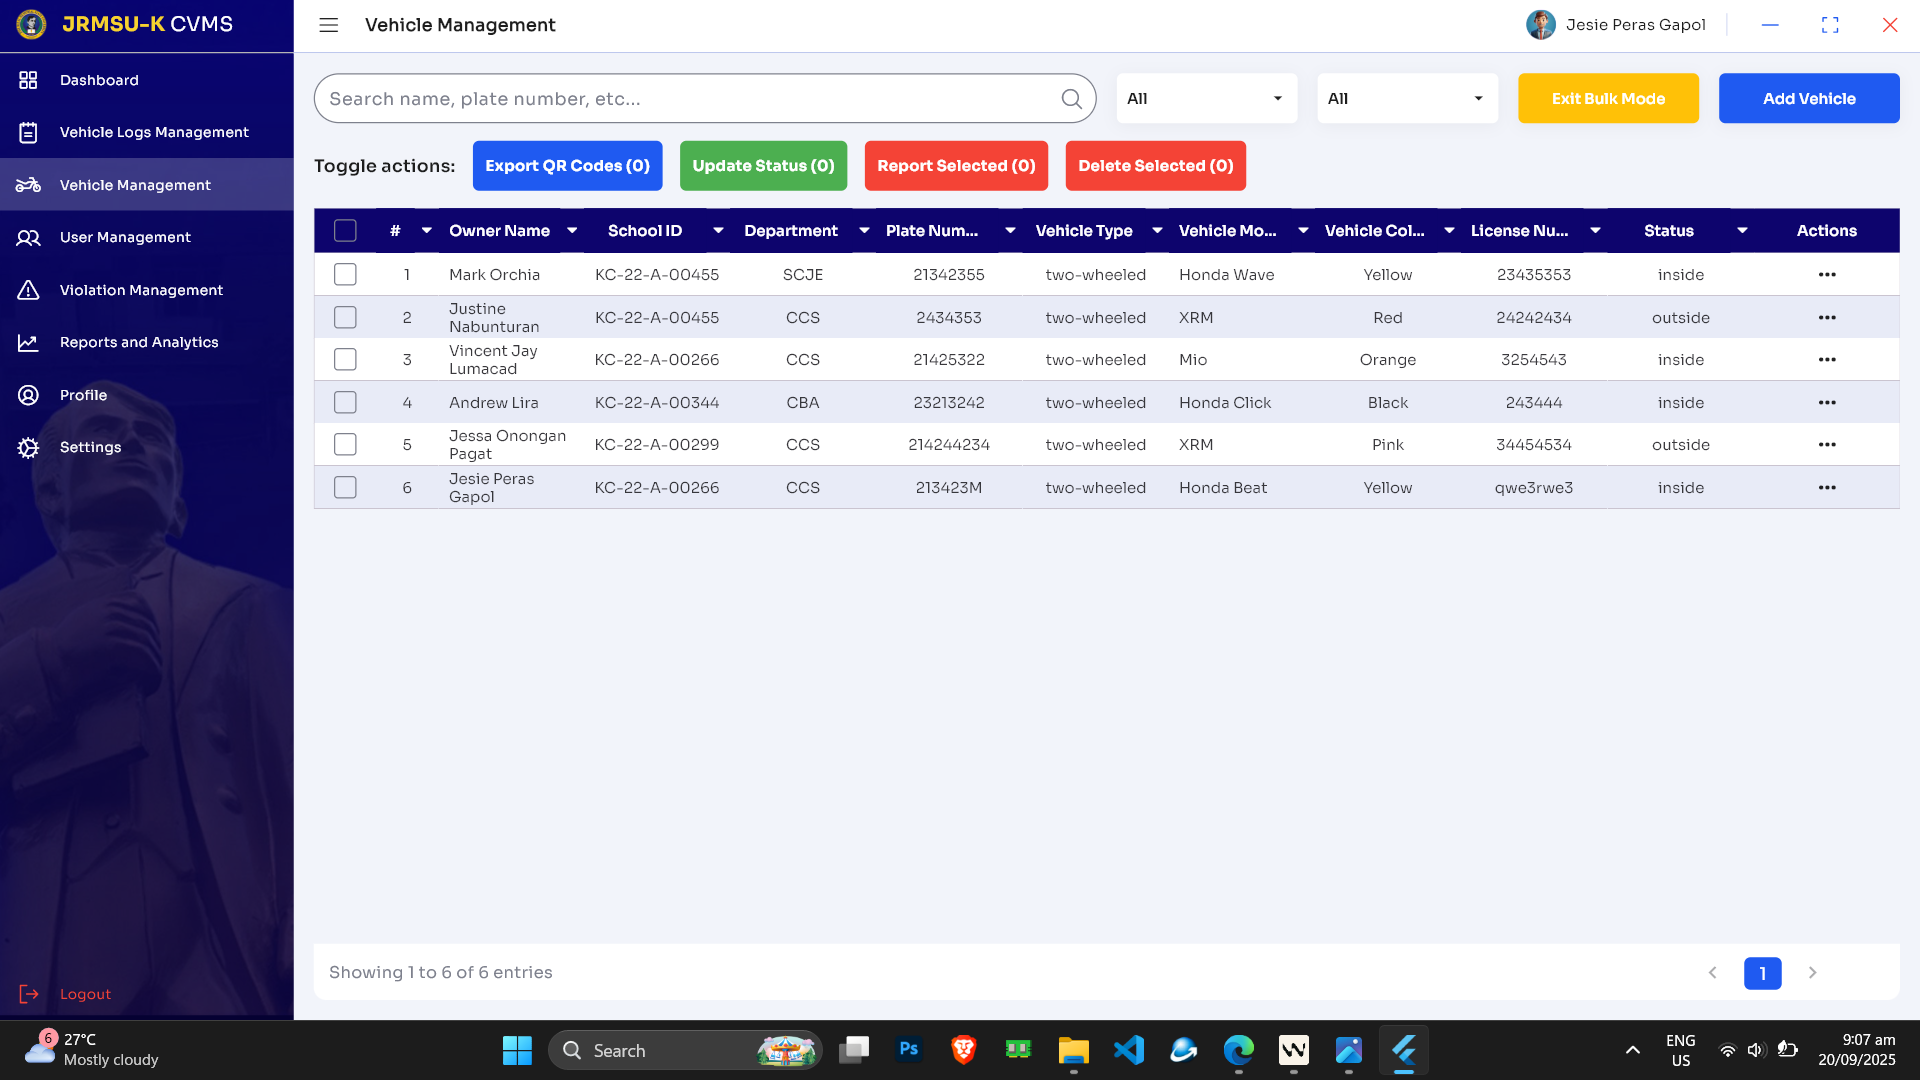
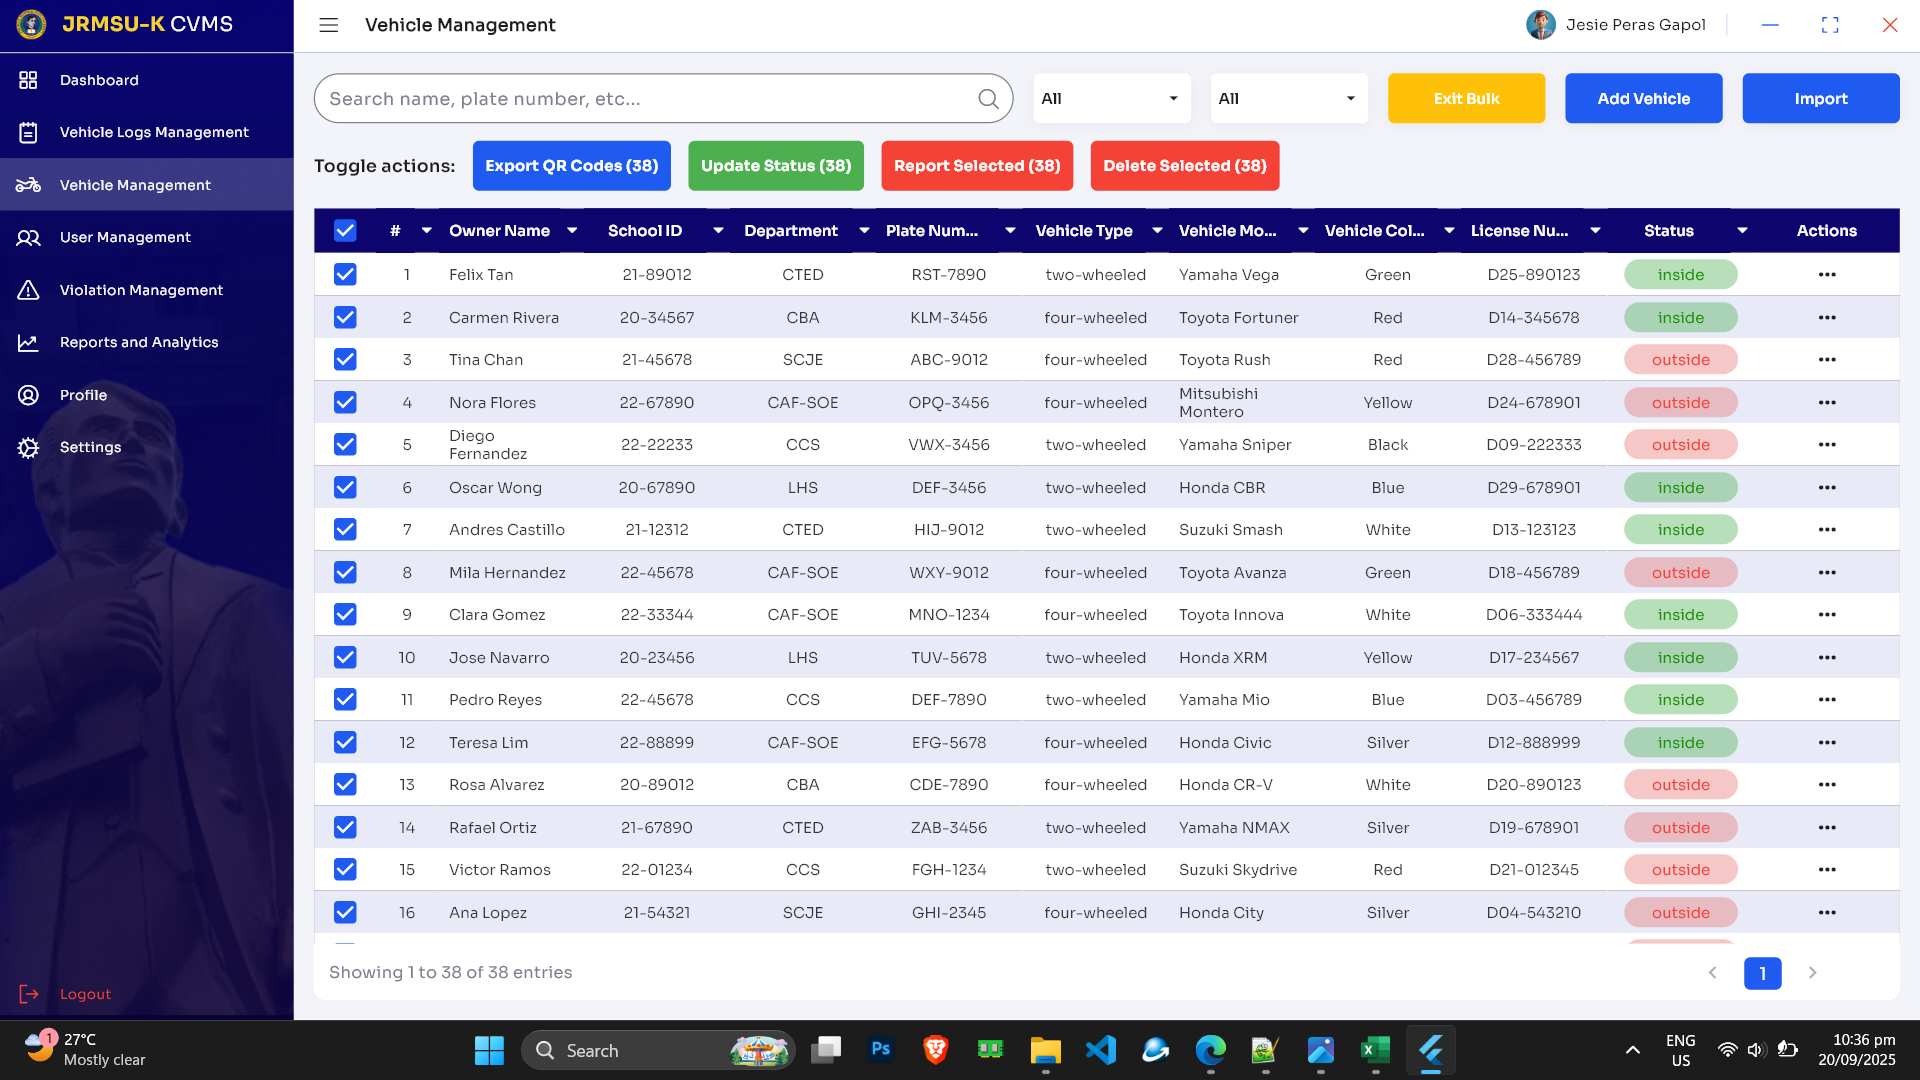
analytics implementation update

diff --git a/README.md b/README.md
@@ -1,24 +1,25 @@
 ## 📱 Screenshots (Current Pages)
 
-| Page                 | Preview                                                                |
-| -------------------- | ---------------------------------------------------------------------- |
-| Login Page           | ![Login Page](./app_progress_shots/login_page.png)                     |
-| Register Page        | ![Register Page](./app_progress_shots/register_page.png)               |
-| Forgot Password Page | ![Forgot Password Page](./app_progress_shots/forgot_pass_page.png)     |
-| Email Sent Page      | ![Email Sent Page](./app_progress_shots/email_sent_page.png)           |
-| Dashboard Page       | ![Dashboard Page](./app_progress_shots/dashboard_page.png)             |
-| Collapsed Sidebar    | ![Collapsed Sidebar](./app_progress_shots/collapsed_sidebar.png)       |
-| Vehicle Management   | ![Vehicle Management](./app_progress_shots/vehicle_management.png)     |
-| Vehicle Bulk Mode    | ![Vehicle Bulk Mode](./app_progress_shots/vehicle_management_bulk.png) |
-| File trigger         | ![File trigger](./app_progress_shots/file_popup_trigger.png)           |
-| Vehicle Logs Page    | ![Vehicle Logs Page](./app_progress_shots/vehicle_logs_page.png)       |
-| Vehicle Log Bulk     | ![Vehicle Log Bulk](./app_progress_shots/vehicle_log_bulk.png)         |
-| Add Vehicle Dialog   | ![Add Vehicle Dialog](./app_progress_shots/add_vehicle_dialog.png)     |
-| Add Log Dialog       | ![Add Log Dialog](./app_progress_shots/add_log_dialog.png)             |
-| View QR Dialog       | ![View QR Dialog](./app_progress_shots/view_qr_dialog.png)             |
-| Violation Management | ![Violation Management](./app_progress_shots/violation_management.png) |
-| User Management      | ![User Management](./app_progress_shots/user_management.png)           |
-| Reports Analytics    | ![Reports Analytics](./app_progress_shots/reports_analytics.png)       |
-| Empty Search         | ![Empty Search](./app_progress_shots/empty_search.png)                 |
-| Profile Page         | ![Profile Page](./app_progress_shots/profile_page.png)                 |
-| Settings Page        | ![Settings Page](./app_progress_shots/settings_page.png)               |
+| Page                   | Preview                                                                |
+| ---------------------- | ---------------------------------------------------------------------- |
+| Login Page             | ![Login Page](./app_progress_shots/login_page.png)                     |
+| Register Page          | ![Register Page](./app_progress_shots/register_page.png)               |
+| Forgot Password Page   | ![Forgot Password Page](./app_progress_shots/forgot_pass_page.png)     |
+| Email Sent Page        | ![Email Sent Page](./app_progress_shots/email_sent_page.png)           |
+| Dashboard Page         | ![Dashboard Page](./app_progress_shots/dashboard_page.png)             |
+| Collapsed Sidebar      | ![Collapsed Sidebar](./app_progress_shots/collapsed_sidebar.png)       |
+| Vehicle Management     | ![Vehicle Management](./app_progress_shots/vehicle_management.png)     |
+| Vehicle Bulk Mode      | ![Vehicle Bulk Mode](./app_progress_shots/vehicle_management_bulk.png) |
+| File trigger           | ![File trigger](./app_progress_shots/file_popup_trigger.png)           |
+| Vehicle Logs Page      | ![Vehicle Logs Page](./app_progress_shots/vehicle_logs_page.png)       |
+| Vehicle Log Bulk       | ![Vehicle Log Bulk](./app_progress_shots/vehicle_log_bulk.png)         |
+| Add Vehicle Dialog     | ![Add Vehicle Dialog](./app_progress_shots/add_vehicle_dialog.png)     |
+| Import Vehicle via CSV | ![Import Vehicle via CSV](./app_progress_shots/import_csv.png)         |
+| Add Log Dialog         | ![Add Log Dialog](./app_progress_shots/add_log_dialog.png)             |
+| View QR Dialog         | ![View QR Dialog](./app_progress_shots/view_qr_dialog.png)             |
+| Violation Management   | ![Violation Management](./app_progress_shots/violation_management.png) |
+| User Management        | ![User Management](./app_progress_shots/user_management.png)           |
+| Reports Analytics      | ![Reports Analytics](./app_progress_shots/reports_analytics.png)       |
+| Empty Search           | ![Empty Search](./app_progress_shots/empty_search.png)                 |
+| Profile Page           | ![Profile Page](./app_progress_shots/profile_page.png)                 |
+| Settings Page          | ![Settings Page](./app_progress_shots/settings_page.png)               |
